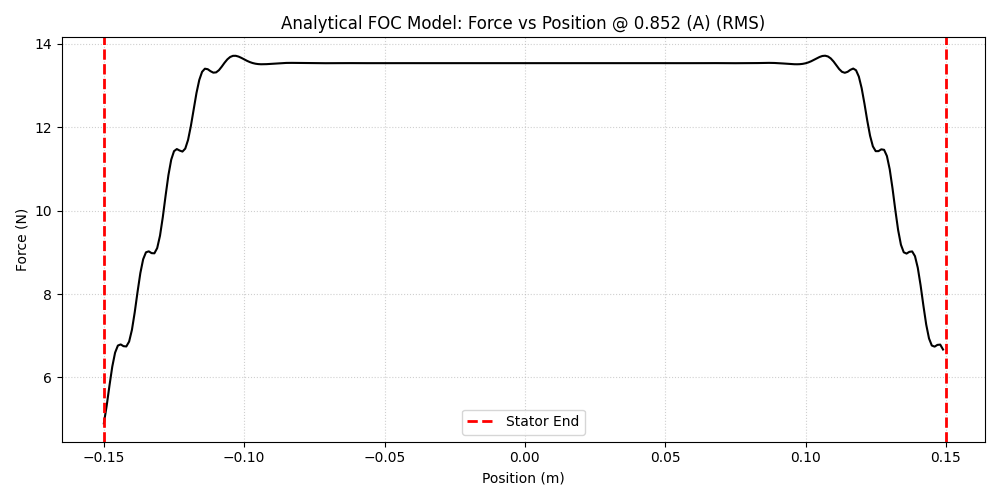
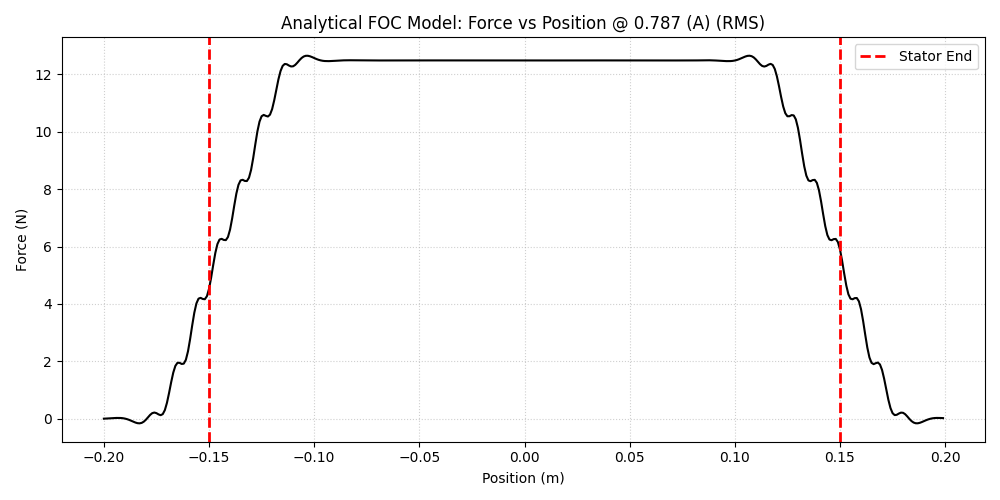
Updated the predication and did a winding test.

diff --git a/README.md b/README.md
@@ -43,9 +43,9 @@ The project will fulfill this goal by using readily available materials and tool
 An `ironless tubular linear` motor featuring a passive radial `6061` aluminium heat sink potted around the enameled copper slots. Due to the low electrical frequency of ~`50 Hz` at a linear velocity of `1 m/s`, eddy currents are a second-order effect compared to removing heat from the slots. The stator is a carbon fibre tube with `10 mm` × `10 mm` `N52` poles arranged as `(N-S|S-N)`. The motor is intended to be used with `12–24 V` supplies.
 
 <div align="center">
-  <img src="./05_media/03_prototype_beta/rev_3/initial_thermal_concept_design_with_force_cooling.png" alt="conceptual_motor_design" width="700">
+  <img src="./05_media/03_prototype_beta/rev_3/winding_data_collection.jpg" alt="slot and pole" width="500">
   <br>
-  <em>Initial thermal conceptual design of the motor.</em>
+  <em>Single slot coil and single stator pole.</em>
 </div>
 
 <br>

diff --git a/00_docs/readme.md b/00_docs/readme.md
@@ -39,26 +39,4 @@ AN  -> Weekly application notes
 ----------------------------------------------------
 ```
 
-#### Application Notes
-
-```
-0x1 = Week 1
-0x2 = Week 2
-0x3 = Week 3
-0x4 = Week 4
-0x5 = Week 5
-0x6 = Week 6
-0x7 = Week 7
-0x8 = Week 8
-0x9 = Week 9
-0xA = Week 10
-0xB = Week 11   
-0xC = Week 12
-0xD = Week 13
-0xE = Week 14   <- Current State
-0xF = Week 15   <- Terminal State
-```
-
-> Check [`here`](https://github.com/wgbowley/OpenLSM/issues?q=is%3Aissue%20label%3AAN) to view the weekly application notes.
-
 ---
